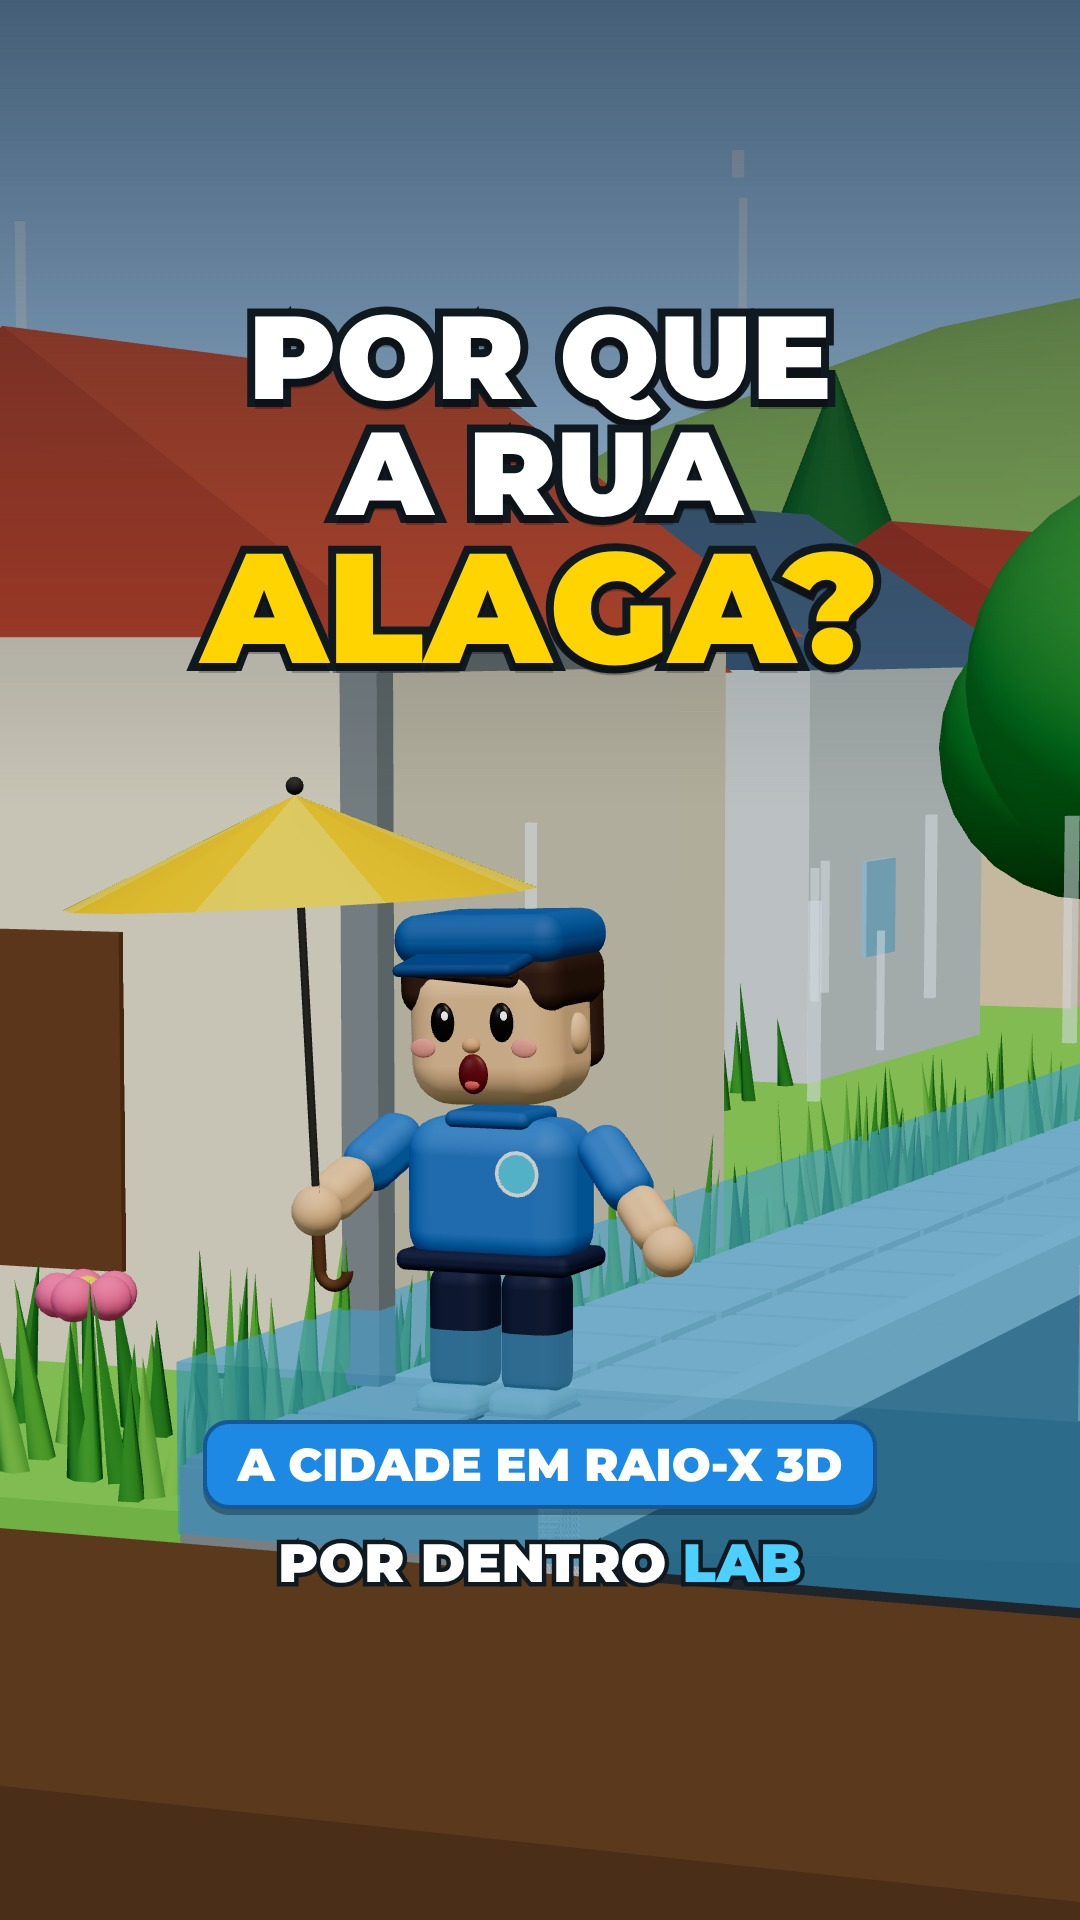
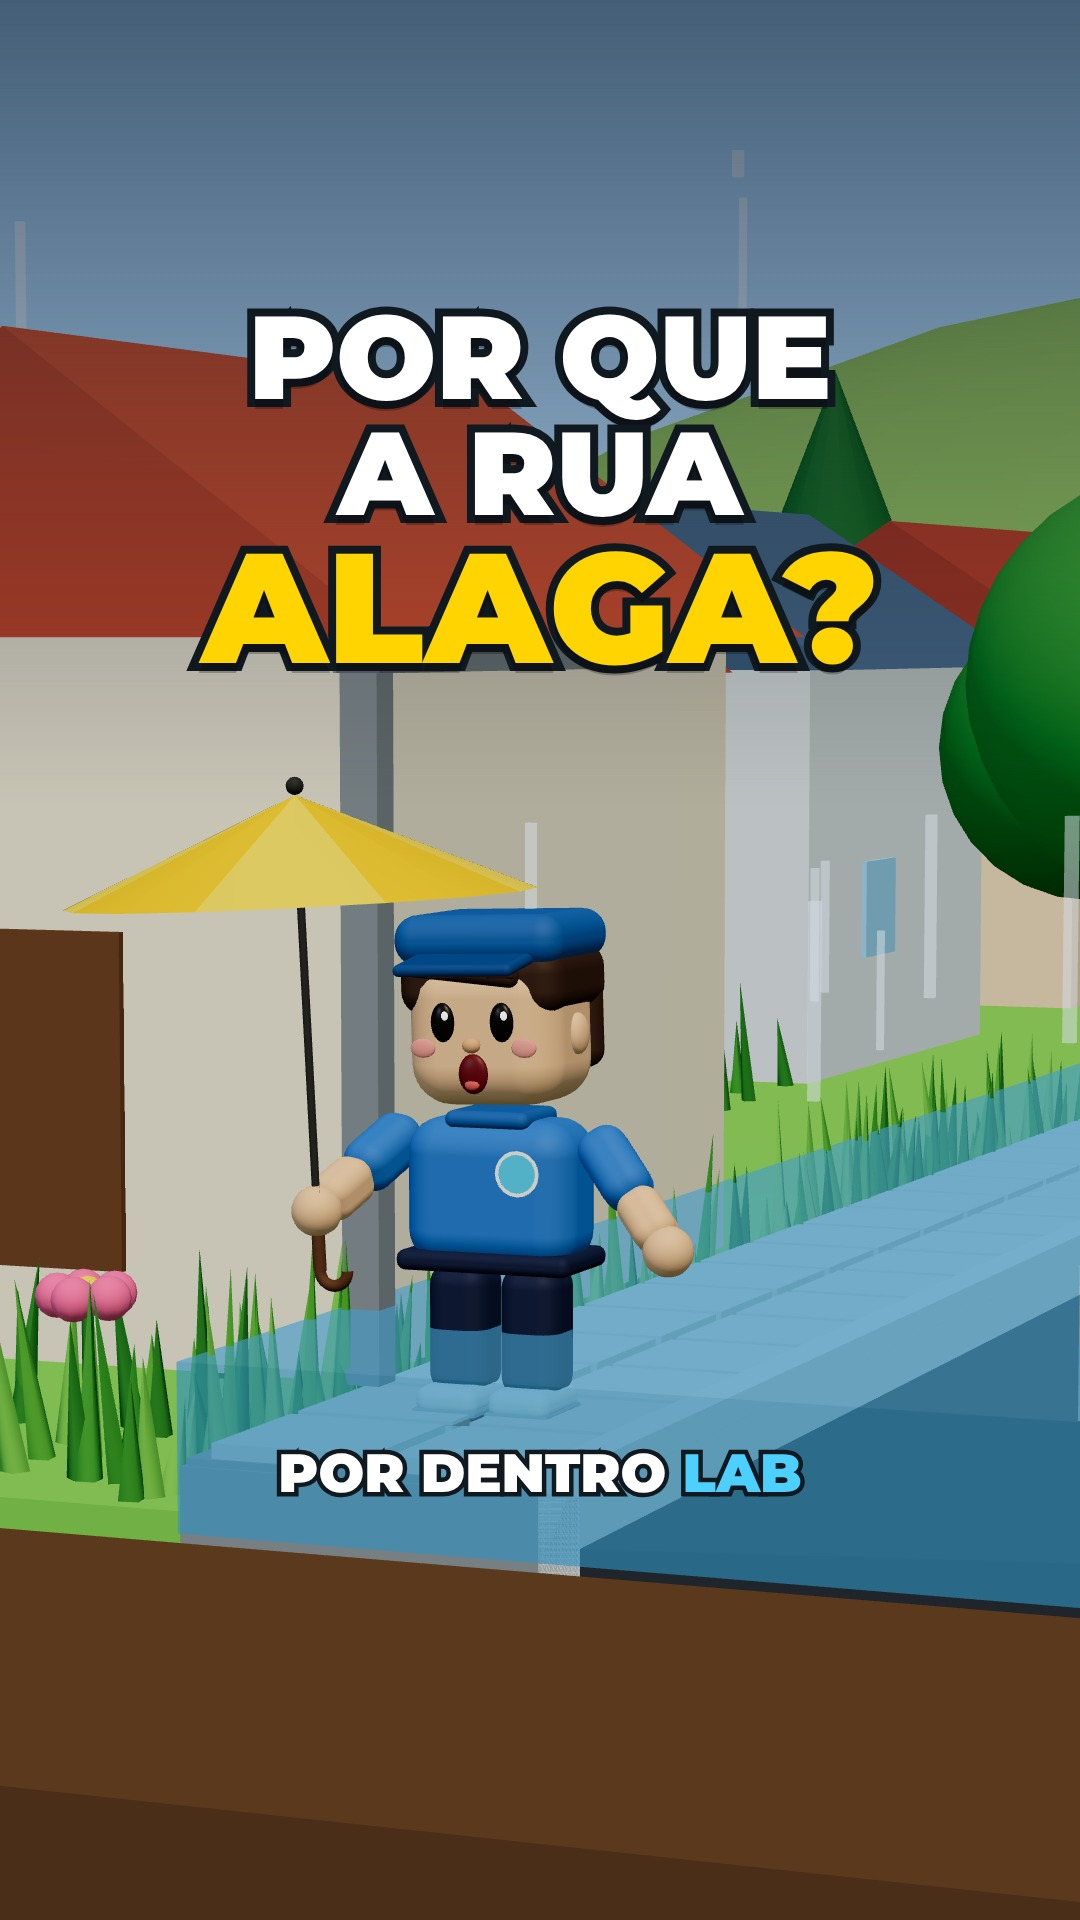
Capa: remove o selo 'A cidade em raio-x 3D'
Claude-Session: https://claude.ai/code/session_014rWy56ZnRYkPbUzaWZj2LB

Changed region(s): [[0.1833, 0.7188, 0.825, 0.8438]]

diff --git a/rua-alagada/app/src/Cover.tsx b/rua-alagada/app/src/Cover.tsx
@@ -20,12 +20,7 @@ export const Cover: React.FC = () => (
       <div style={{fontSize: 118}}>A RUA</div>
       <div style={{fontSize: 156, color: "#FFD400"}}>ALAGA?</div>
     </div>
-    <div style={{position: "absolute", top: 1420, left: 0, right: 0, display: "flex", justifyContent: "center"}}>
-      <div style={{display: "flex", alignItems: "center", gap: 14, background: "#1E88E5", color: "#fff", fontFamily: FONT, fontWeight: 900, fontSize: 46, padding: "12px 30px", borderRadius: 26, border: "4px solid rgba(0,0,0,0.35)", boxShadow: "0 6px 0 rgba(0,0,0,0.3)"}}>
-        A CIDADE EM RAIO-X 3D
-      </div>
-    </div>
-    <div style={{position: "absolute", top: 1530, left: 0, right: 0, textAlign: "center", fontFamily: FONT, fontWeight: 900, fontSize: 54, color: "#fff", WebkitTextStroke: "9px #101820", paintOrder: "stroke fill"}}>
+    <div style={{position: "absolute", top: 1440, left: 0, right: 0, textAlign: "center", fontFamily: FONT, fontWeight: 900, fontSize: 54, color: "#fff", WebkitTextStroke: "9px #101820", paintOrder: "stroke fill"}}>
       POR DENTRO <span style={{color: "#4DD0FF"}}>LAB</span>
     </div>
   </AbsoluteFill>
